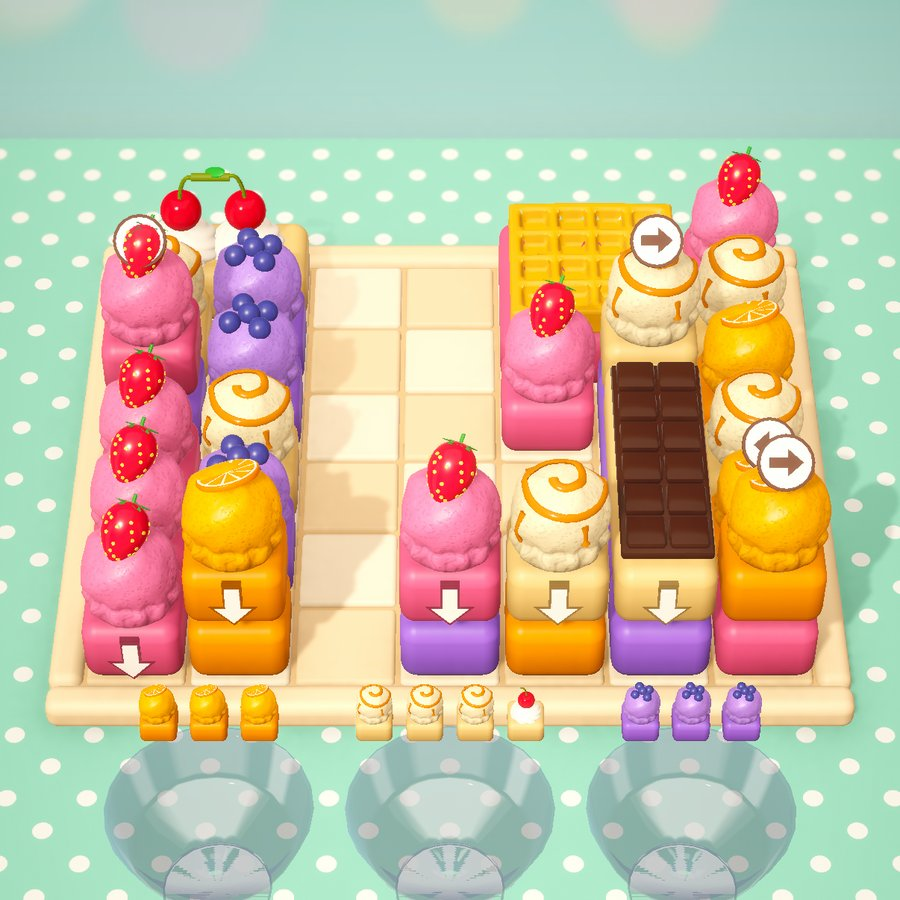
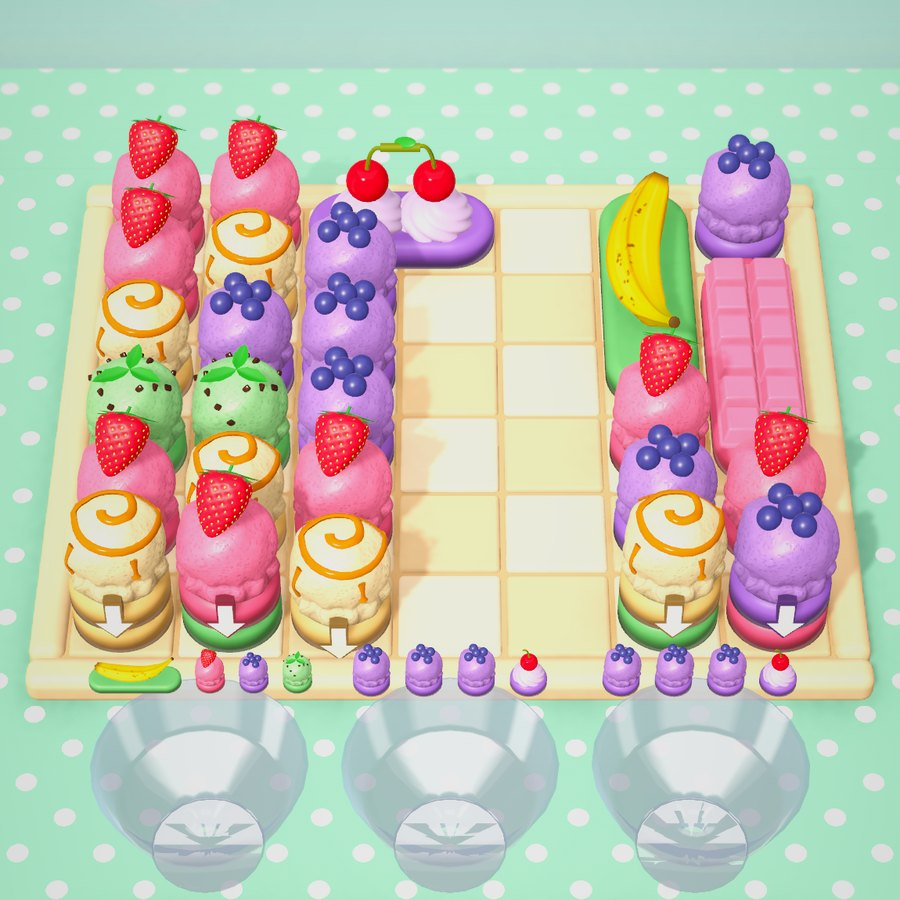
Page pictures with the game's new playing screen: the beats, the four counter tricks, the level strip and the OG card (renders from the Sundae session, sundae-sort 614d130); the frozen and twin-cherry alts say what the new pictures show; home.jpg kept, the home page did not change

diff --git a/index.html b/index.html
@@ -78,9 +78,9 @@
       <p>They arrive one at a time, each on a dessert you can reach long before you need it, so every one changes a decision.</p>
     </div>
     <div class="tricks">
-      <article class="trick rise"><img src="/assets/media/mech-frozen.jpg" alt="Two desserts in blocks of ice marked 9 and 4." loading="lazy">
+      <article class="trick rise"><img src="/assets/media/mech-frozen.jpg" alt="Two desserts in blocks of ice marked 15 and 3." loading="lazy">
         <div><h3>Frozen desserts</h3><p>Ice holds a dessert in place. It thaws as others leave the counter: the number counts down to zero.</p></div></article>
-      <article class="trick rise"><img src="/assets/media/mech-twins.jpg" alt="A pair of cherries on one stem sitting on a scoop." loading="lazy">
+      <article class="trick rise"><img src="/assets/media/mech-twins.jpg" alt="A pair of cherries on one stem, each on a swirl of cream." loading="lazy">
         <div><h3>Twin cherries</h3><p>Two cherries on one stem need two places at once, so plan room for both.</p></div></article>
       <article class="trick rise"><img src="/assets/media/mech-padlock.jpg" alt="A padlocked dessert among scoops and a banana." loading="lazy">
         <div><h3>Key and padlock</h3><p>A padlocked dessert opens only when its key dessert has left the counter.</p></div></article>
